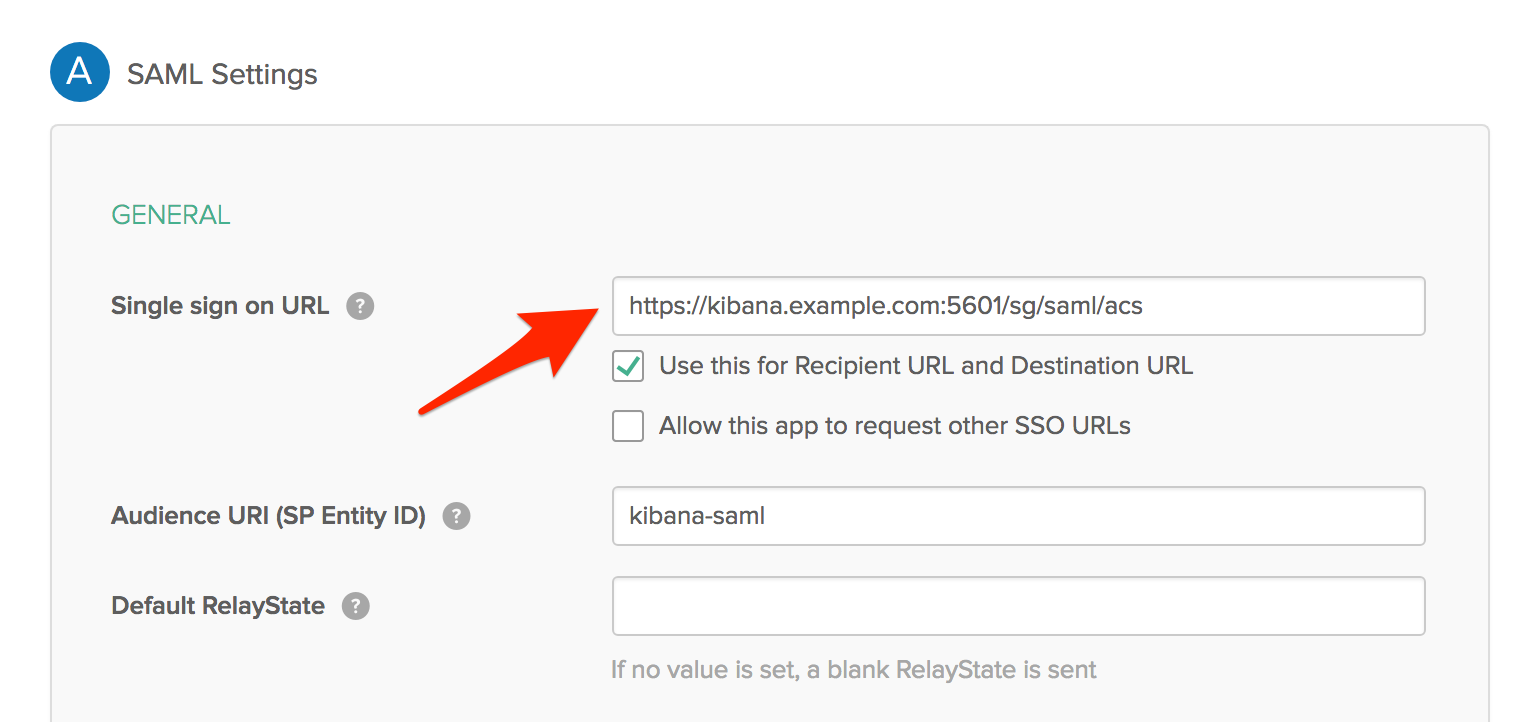
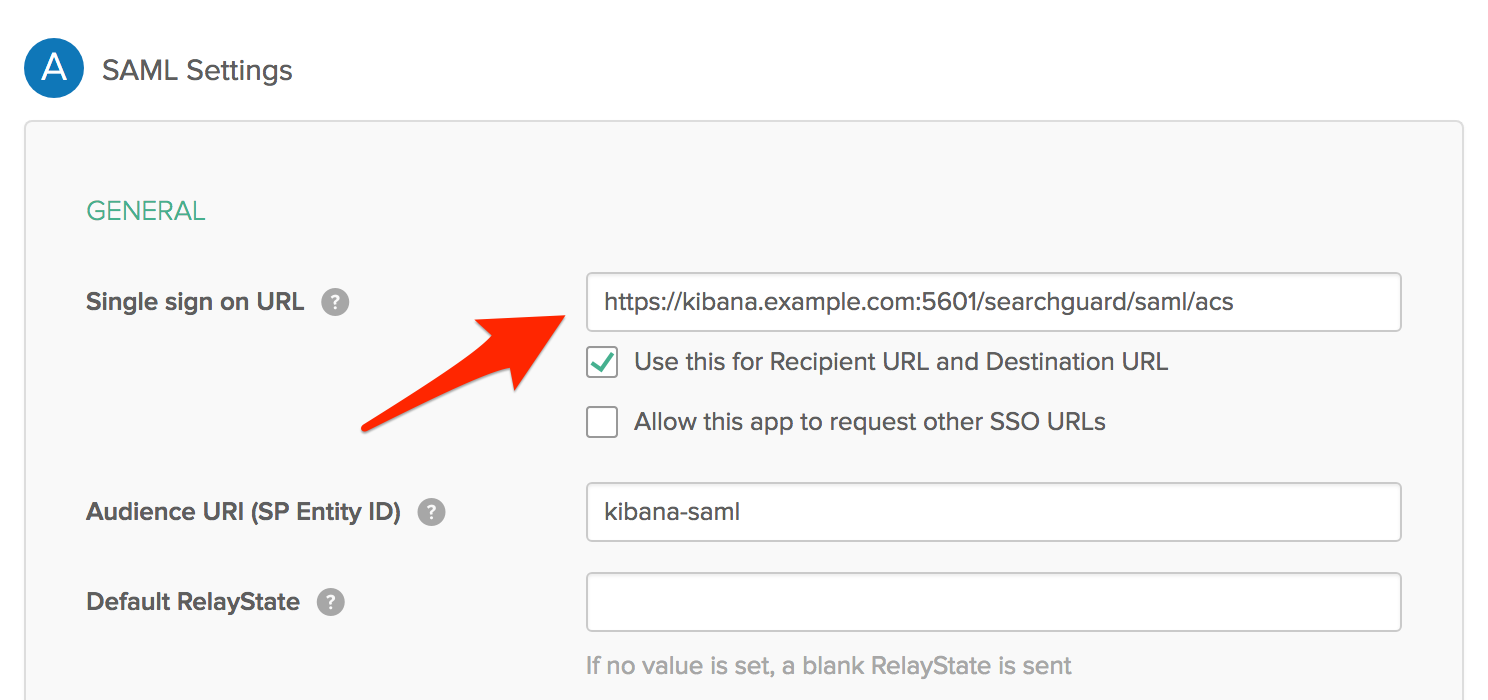
prepare new release 23.0

diff --git a/_troubleshooting/logging_troubleshooting.md b/_troubleshooting/logging_troubleshooting.md
@@ -1,0 +1,56 @@
+---
+title: Search Guard logging
+slug: troubleshooting-setting-log-level
+category: troubleshooting
+order: 50
+layout: troubleshooting
+---
+
+<!--- Copryight 2017 floragunn GmbH -->
+
+# Search Guard logging
+
+For troubleshooting any problem with Search Guard, it is recommended to set the log level at least to `debug`.
+
+Add the following lines in `config/log4j2.properties` and restart your node:
+
+```
+logger.searchguard.name = com.floragunn
+logger.searchguard.level = debug
+```
+
+This already print out a lot if helpful information in your log file. If this information is not sufficient, you can also set the log level to `trace`.
+
+## Filter logs by username
+
+Search Guard adds the currently logged in user to the log4j *Thread Context Map*. This makes it possible to exclude/filter log messages for certain users.
+
+This is especially useful when debugging permission issues with Kibana. You can filter out any log messages from the internal Kibana server that would otherwise just clutter the logfile. To filter log statements from the user *kibanaserver* and *logstash*, add a *ThreadContextMapFilter* to the respective appender in `log4j2.properties`:
+ 
+``` 
+appender.console.type = Console
+appender.console.name = console
+appender.console.layout.type = PatternLayout
+appender.console.layout.pattern = [%d{ISO8601}][%-5p][%-25c{1.}] %marker%m%n
+appender.console.filter.user.type = ThreadContextMapFilter
+appender.console.filter.user.onMatch=DENY
+appender.console.filter.user.onMisMatch=NEUTRAL
+appender.console.filter.user.operator=or
+appender.console.filter.user.value1.type=KeyValuePair
+appender.console.filter.user.value1.key=user
+appender.console.filter.user.value1.value=kibanaserver
+appender.console.filter.user.value1.type=KeyValuePair
+appender.console.filter.user.value1.key=user
+appender.console.filter.user.value1.value=logstash
+
+```
+
+## Add username to log statements
+
+You can also use the log4j *Thread Context Map* to add the username to any log statement. For example, this makes it possible to filter the slow log by username. The username is accessible in the thread context map by key *user*. You can add it to any log pattern by using `%x{user}`: 
+
+```
+appender.rolling.layout.pattern = [%d{ISO8601}][%-5p][%-25c{1.}][%x{user}] %marker%.-10000m%n
+
+appender.index_search_slowlog_rolling.layout.pattern = [%d{ISO8601}][%-5p][%-25c] [%x{user}] %marker%.-10000m%n
+```

diff --git a/_troubleshooting/saml_troubleshooting.md b/_troubleshooting/saml_troubleshooting.md
@@ -10,8 +10,6 @@ layout: troubleshooting
 
 # SAML troubleshooting
 
-**This is preliminary documentation for the Search Guard SAML beta.**
-
 If you encounter any problems while using SAML, please check the following steps to pinpoint the problem. 
 
 ## Check the sp.entity_id
@@ -51,7 +49,7 @@ After a successful login, your IdP sends a SAML Response via HTTP POST to the so
 The endpoint Search Guard Kibana plugin provides is:
 
 ```
-/sg/saml/acs
+/searchguard/saml/acs
 ```
 
 Make sure that you have configured this endpoint correctly in your IdP. Some IdPs also require you to whitelist all endpoints it will send requests to. Make sure the ACS endpoint is listed.
@@ -65,7 +63,7 @@ Okta example:
 Kibana also requires you to whitelist this endpoint. Make sure you have the following entry in your `kibana.yml`:
 
 ```
-server.xsrf.whitelist: [/sg/saml/acs]
+server.xsrf.whitelist: [/searchguard/saml/acs]
 ```
 
 ## Make sure all documents are signed
@@ -121,15 +119,10 @@ This will print out the SAML response in the Elasticsearch log file so you can i
 Another way of inspecting the SAML Response is to montitor the network traffic while logging in to Kibana. The IdP will HTTP POST the base64-encoded SAML Response to:
 
 ```
-/sg/saml/acs
+/searchguard/saml/acs
 ```
 
 Inspect the payload of this POST request and use a tool like [https://www.base64decode.org/](https://www.base64decode.org/) to decode it.
-
-
-## Inspecting the JWT token
-
-**TBD**
 
 ## Checking the role mapping: NamedID and Roles
 
@@ -161,3 +154,13 @@ saml:
         roles_key: Role
 ```
 
+## Inspecting the JWT token
+
+Search Guard trades the heavyweight SAML response for a more lightweight JSON web token. The username and roles in the JWT are ultimately mapped to Search Guard roles. If there is a problem with the mapping, you can enable the token debug mode in the `log4j2.properties` like:
+
+```
+logger.token.name = com.floragunn.dlic.auth.http.saml.Token
+logger.token.level = debug
+```
+
+This will print the JWT in the logfile. You can then decode the JWT and inspect its content, for example by using [https://jwt.io/](https://jwt.io/). 

diff --git a/_docs/saml_authentication.md b/_docs/saml_authentication.md
@@ -14,8 +14,6 @@ Copryight 2018 floragunn GmbH
 
 # SAML Authentication
 
-**This is preliminary documentation for the Search Guard SAML Beta. Configuration keys and other values are subject to change.**
-
 Search Guard supports user authentication via SAML Single Sign-On. Search Guard implements the Web Browser SSO profile of the SAML 2.0 protocol.
 
 This profile is intended to be used with web browsers. It is not a general-purpose way of authenticating users against Search Guard, so it is not meant for using it with other REST clients. The primary use case is to support Kibana Single Sign-On. 
@@ -164,10 +162,6 @@ SAML, unlike other protocols like JWT or Basic Authentication, is not meant to b
 |---|---|
 | exchange_key | The key to sign the token. The algorithm is HMAC256, so it should have at least 32 characters. |
 
-### Token expiration
-
-**TBD**
-
 ## TLS settings
 
 If you are loading the IdP metadata from a URL, it is recommended to use SSL/TLS. If you use an external IdP like Okta or Auth0 that uses a trusted certificate, you usually do not need to configure anything. If you host the IdP yourself and use your own root CA, you can customize the TLS settings as follows. These settings are only used for loading SAML metadata over https.
@@ -281,7 +275,7 @@ authc:
 
 ## Kibana configuration
 
-**For Kibana SAML authentication to work you need at least v14-beta-1 and above. This is beta software. Configuration keys and other values are subject to change.**
+**For Kibana SAML authentication to work you need at least the Search Guard Kibana Plugin v14 and above.**
 
 Since most of the SAML specific configuration is done in Search Guard, just activate SAML in your `kibana.yml` by adding:
 
@@ -292,5 +286,11 @@ searchguard.auth.type: "saml"
 In addition the Kibana endpoint for validating the SAML assertions must be whitelisted:
 
 ```
-server.xsrf.whitelist: [/sg/saml/acs]
+server.xsrf.whitelist: ["/searchguard/saml/acs"]
+```
+
+If you use the logout POST binding, you also need to whitelist the logout endpoint:
+
+```
+server.xsrf.whitelist: ["/searchguard/saml/acs", "/searchguard/saml/logout"]
 ```

diff --git a/_changelogs/changelog_kibana_v14.md b/_changelogs/changelog_kibana_v14.md
@@ -17,8 +17,10 @@ Copryight 2010 floragunn GmbH
 
 ## Features
 * Add full support for SAML Single Sign On
+  * [Documentation](/latest/kibana-authentication-saml){:target="_blank"} 
 * Add full support for OpenID Single Sign On
 * Add full support for Kerberos
+  * [Documentation](/latest/kibana-authentication-kerberos) 
 * Make it possible to redirect to an URL when a JWT expires
   * [https://github.com/floragunncom/search-guard-kibana-plugin/pull/116](https://github.com/floragunncom/search-guard-kibana-plugin/pull/116){:target="_blank"} 
 * Check that X-Pack security is disabled if it is installed 
@@ -46,7 +48,7 @@ Copryight 2010 floragunn GmbH
 * Fix session timeout
   * This PR fixes a regression where the session would not be extended as configured.
   * [https://github.com/floragunncom/search-guard-kibana-plugin/pull/117](https://github.com/floragunncom/search-guard-kibana-plugin/pull/117){:target="_blank"}
-* Fix case sensitivity fpr JWTs in URLs
+* Fix case sensitivity for JWTs in URLs
   * [https://github.com/floragunncom/search-guard-kibana-plugin/pull/115](https://github.com/floragunncom/search-guard-kibana-plugin/pull/115){:target="_blank"}
 * Fix short links in share URLs
   * Fixes an issue where converting a snapshot URL wouldn't work anymore

diff --git a/_docs/kibana_authentication_kerberos.md b/_docs/kibana_authentication_kerberos.md
@@ -6,7 +6,7 @@ category: kibana-authentication
 order: 700
 layout: docs
 edition: community
-description: How to usee Kerberos to implement Kibana Single Sign On.
+description: How to use Kerberos to implement Kibana Single Sign On.
 ---
 <!---
 Copryight 2016-2017 floragunn GmbH
@@ -14,9 +14,15 @@ Copryight 2016-2017 floragunn GmbH
 
 # Using Kibana with Kerberos
 
-Due to the way Kerberos operates and how Kibana handles the HTTP request flow, at the moment it is not possible to use Kerberos with the Kibana plugin. If you want to use Kerberos, please make sure the Search Guard Kibana plugin is not installed! 
+**For full Kerberos support in Kibana you need the Search Guard Kibana plugin v14 or above.**
+ 
+Once you have set up [Kerberos](kerberos.md) for Elasticsearch, configure it as authentication type in kibana.yml like: 
 
-**Kerberos authentication will work, but Multi Tenancy and the Config GUI are not supported at the moment. See also "Known Issues".**
+```
+searchguard.auth.type: "kerberos"
+```
+
+You can use all Search Guard features like multi tenancy and the configuration GUI with Kerberos. Due to bugs and limitations in Kibana and X-Pack, not all X-Pack features will work however, please see below.
 
 ## Elasticsearch configuration
 

diff --git a/_docs/kibana_authentication_saml.md b/_docs/kibana_authentication_saml.md
@@ -14,16 +14,22 @@ Copryight 2016-2017 floragunn GmbH
 
 # Using Kibana with SAML authentication
 
-**For Kibana SAML authentication to work you need at least v14-beta-1 and above. This is beta software. Configuration keys and other values are subject to change.**
+**For Kibana SAML authentication to work you need at least the Search Guard Kibana Plugin v14 and above.**
 
-Since most of the SAML specific configuration is done in Search Guard, just activate SAML by adding:
+Since most of the SAML specific configuration is done in Search Guard, just activate SAML in your `kibana.yml` by adding:
 
 ```
 searchguard.auth.type: "saml"
 ```
 
-In addition, the Kibana endpoint for validating the SAML assertions must be whitelisted:
+In addition the Kibana endpoint for validating the SAML assertions must be whitelisted:
 
 ```
-server.xsrf.whitelist: [/sg/saml/acs]
+server.xsrf.whitelist: ["/searchguard/saml/acs"]
+```
+
+If you use the logout POST binding, you also need to whitelist the logout endpoint:
+
+```
+server.xsrf.whitelist: ["/searchguard/saml/acs", "/searchguard/saml/logout"]
 ```

diff --git a/_changelogs/changelog_searchguard_6_x_23_0.md b/_changelogs/changelog_searchguard_6_x_23_0.md
@@ -30,14 +30,14 @@ Release Date: 14.08.2018
 ### Search Guard
 
 * Added full support for SAML
-  * ..  
+  * [SAML documentation](/latest/saml-authentication){:target="_blank"}  
 * Use internal user database as authorizer
-  * ..
+  * [Documentation](/latest/internal-users-database#authorization){:target="_blank"}
   * [https://github.com/floragunncom/search-guard/pull/475](https://github.com/floragunncom/search-guard/pull/475){:target="_blank"}
 * Add logged in user to log4j thread context
   * Makes it possible to add the user name to each log statement for improved debugging
   * Makes it possible to filter log statements by user name, which makes debugging Kibana permission issues easier by filtering the Kibana server user
-  * ...
+  * [Documentation](/latest/troubleshooting-setting-log-level){:target="_blank"}
   * [https://github.com/floragunncom/search-guard/pull/534](https://github.com/floragunncom/search-guard/pull/534){:target="_blank"}
 
 ### Proxy authentication

diff --git a/_docs/configuration_internalusers.md b/_docs/configuration_internalusers.md
@@ -75,3 +75,23 @@ basic_internal_auth_domain:
   authentication_backend:
     type: internal
 ```
+
+## Authorization
+
+You can also use the internal user database for authorization, means assigning backend roles, only. This is useful when your primary way of authentication does not provide any role information.
+
+For example, you can use LDAP or JWT for authentication, and the internal user database for authorization/assigning roles.
+
+Search Guard will use the name of the autenticated user to look up the corresponding entry in the internal user database. If found, the configures roles will be assigned as backen roles to this user.
+
+If you use the internal user database for authorization only, there is no need to set a password hash. The entries are solely used for assigning backend roles.
+
+Configuration:
+
+```
+authz:
+  internal_authorization:
+    enabled: true
+    authorization_backend:
+      type: internal
+```      

diff --git a/_troubleshooting/tls_troubleshooting.md b/_troubleshooting/tls_troubleshooting.md
@@ -10,19 +10,6 @@ layout: troubleshooting
 
 # TLS troubleshooting
 
-## Setting the log level to debug
-
-For troubleshooting any problem with Search Guard, it is recommended to set the log level to at least `debug`.
-
-Add the following lines in `config/log4j2.properties` and restart your node:
-
-```
-logger.searchguard.name = com.floragunn
-logger.searchguard.level = debug
-```
-
-This will already print out a lot if helpful information in your log file. If this information is not sufficient, you can also set the log level to `trace`.
-
 ## Validate your elasticsearch.yml
 
 The Elasticsearch configuration is in yaml format, and so is the Search Guard configuration. A quick way of checking the validity of any yml file is to use the Yaml Lint web service:

diff --git a/_docs/proxy_auth.md b/_docs/proxy_auth.md
@@ -69,6 +69,7 @@ proxy_auth_domain:
 |---|---|
 | user_header | String, The HTTP header field containing the authenticated username. Default: `x-proxy-user` |
 | roles_header | String, The HTTP header field containing the comma separated list of authenticated role names. Roles found in this header field will be used as backend roles and can be used to [map the user to Search Guard roles](configuration_roles_mapping.md). Default: `x-proxy-roles` |
+| roles_separator | String, the separator for roles. Default: ","  |
 
 
 ## Example
